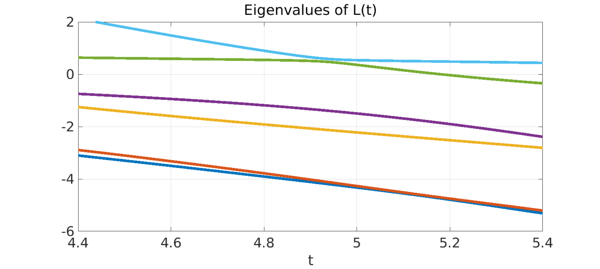
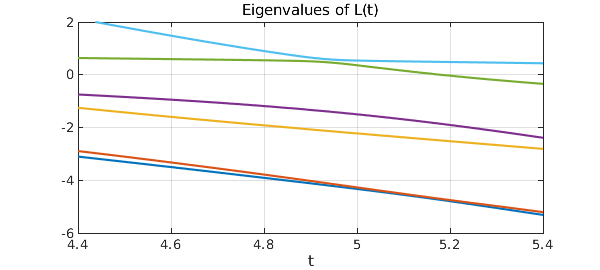
update ODE level repulsion

diff --git a/examples/ode-eig/img/LevelRepulsionODE.html b/examples/ode-eig/img/LevelRepulsionODE.html
@@ -27,10 +27,9 @@ E = chebfun; tic
 for k = 1:6
    E(:,k) = chebfun(@(t) ek(eigL(t),k),d,'splitting','off','eps',1e-4,'vectorize');
 end
-FS = 'fontsize'; LW = 'linewidth';
-figure, plot(E,LW,5), grid on
-title('Eigenvalues of L(t)',FS,36);
-xlabel('t',FS,36)
+figure, plot(E), grid on
+title('Eigenvalues of L(t)');
+xlabel('t')
 ylim([-6 2])</pre><img src="img/LevelRepulsionODE_01.png" class="figure" alt="">
 
 One sees two pairs of curves that nearly cross, but not quite.  This brings us to explaining what we did wrong at first.  It turns out that if the variable coefficient in the operator is replaced by the constant $1$, this eigenvalue problem is non-generic: its eigenfunctions are even or odd, and eigenvalue crossings occur.  By making this coefficient a little bit variable, we have broken that symmetry.  Changing 20 to 40 would make the coefficient function closer to constant, and the near-crossing would be even closer.
@@ -40,7 +39,7 @@ For a computed example of a similar flavor involving PDEs rather than ODEs, see 
 Alas, this example takes a while to run:
 
 <pre class="mcode-input">time_in_seconds = toc</pre><pre class="mcode-output">time_in_seconds =
-  54.567856999999997
+  31.920628000000001
 </pre>
 
 ## Reference

diff --git a/examples/ode-eig/index.html b/examples/ode-eig/index.html
@@ -61,7 +61,7 @@
 <div class="row main noleftpadding"><div class="col-sm-4 noleftpadding">
     <ul class='sidenav'>
         <li><a href="/examples/applics/index.html">Applications<span>6</span></a></li>
-        <li><a href="/examples/approx/index.html">Approximation (1D)<span>43</span></a></li>
+        <li><a href="/examples/approx/index.html">Approximation (1D)<span>44</span></a></li>
         <li><a href="/examples/approx2/index.html">Approximation (2D)<span>16</span></a></li>
         <li><a href="/examples/approx3/index.html">Approximation (3D)<span>10</span></a></li>
         <li><a href="/examples/calc/index.html">Calculus<span>6</span></a></li>

diff --git a/examples/ode-eig/LevelRepulsionODE.html b/examples/ode-eig/LevelRepulsionODE.html
@@ -78,10 +78,9 @@ E = chebfun; tic
 for k = 1:6
    E(:,k) = chebfun(@(t) ek(eigL(t),k),d,'splitting','off','eps',1e-4,'vectorize');
 end
-FS = 'fontsize'; LW = 'linewidth';
-figure, plot(E,LW,5), grid on
-title('Eigenvalues of L(t)',FS,36);
-xlabel('t',FS,36)
+figure, plot(E), grid on
+title('Eigenvalues of L(t)');
+xlabel('t')
 ylim([-6 2])</pre>
 
 <p><img src="img/LevelRepulsionODE_01.png" class="figure" alt=""></p>
@@ -91,7 +90,7 @@ ylim([-6 2])</pre>
 <pre class="mcode-input">time_in_seconds = toc</pre>
 
 <pre class="mcode-output">time_in_seconds =
-  54.567856999999997
+  31.920628000000001
 </pre>
 
 <h3 id="reference">Reference</h3>

diff --git a/index.html b/index.html
@@ -269,5 +269,5 @@ plot(minx(1),minx(2),'.w')
     <script type="text/javascript" src="/js/config.js"></script>
     <script type="text/javascript" src="/js/jquery.flexslider-min.js"></script>
   </body>
-<!-- Compiled on Thursday, 15 April 2021 at 11:27. -->
+<!-- Compiled on Thursday, 15 April 2021 at 11:33. -->
 </html>

diff --git a/examples/ode-eig/LevelRepulsionODE.m b/examples/ode-eig/LevelRepulsionODE.m
@@ -61,10 +61,9 @@ E = chebfun; tic
 for k = 1:6
    E(:,k) = chebfun(@(t) ek(eigL(t),k),d,'splitting','off','eps',1e-4,'vectorize');
 end
-FS = 'fontsize'; LW = 'linewidth';
-figure, plot(E,LW,5), grid on
-title('Eigenvalues of L(t)',FS,36);
-xlabel('t',FS,36)
+figure, plot(E), grid on
+title('Eigenvalues of L(t)');
+xlabel('t')
 ylim([-6 2])
 
 %%
